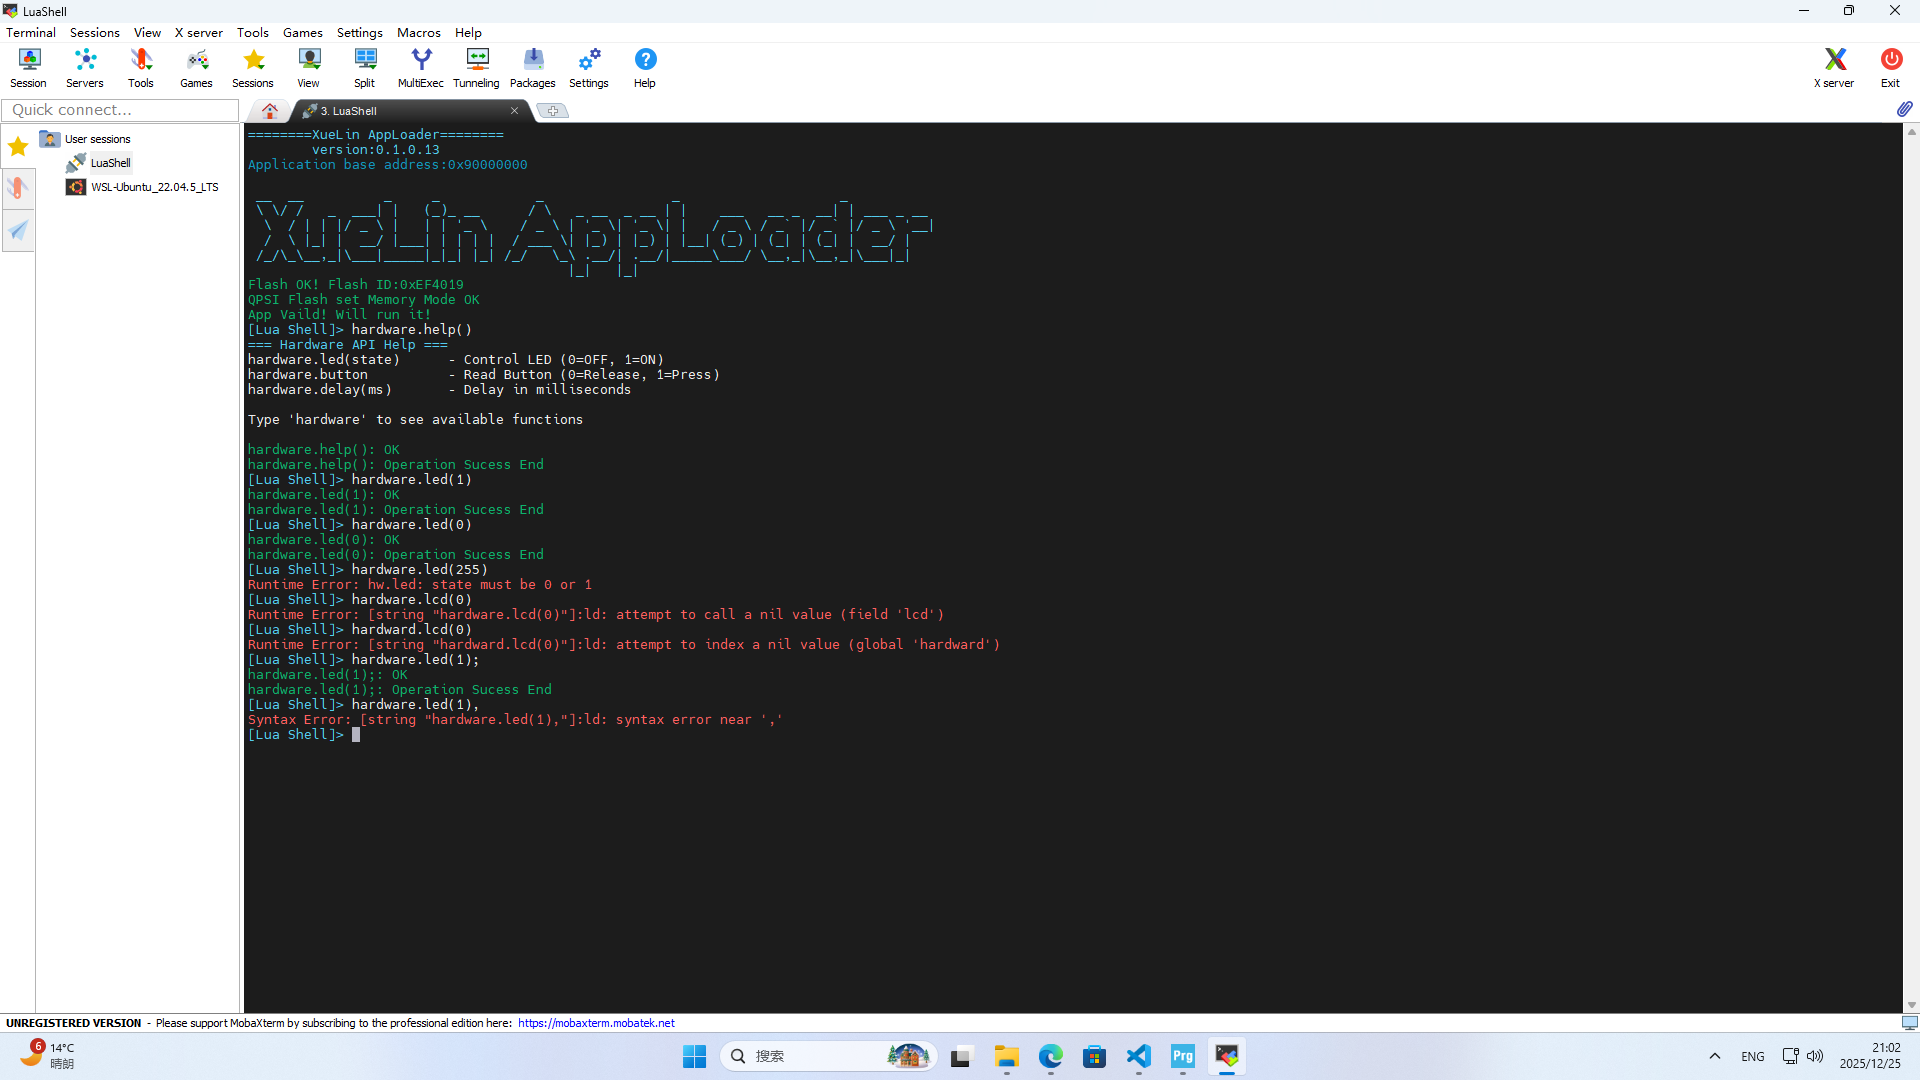
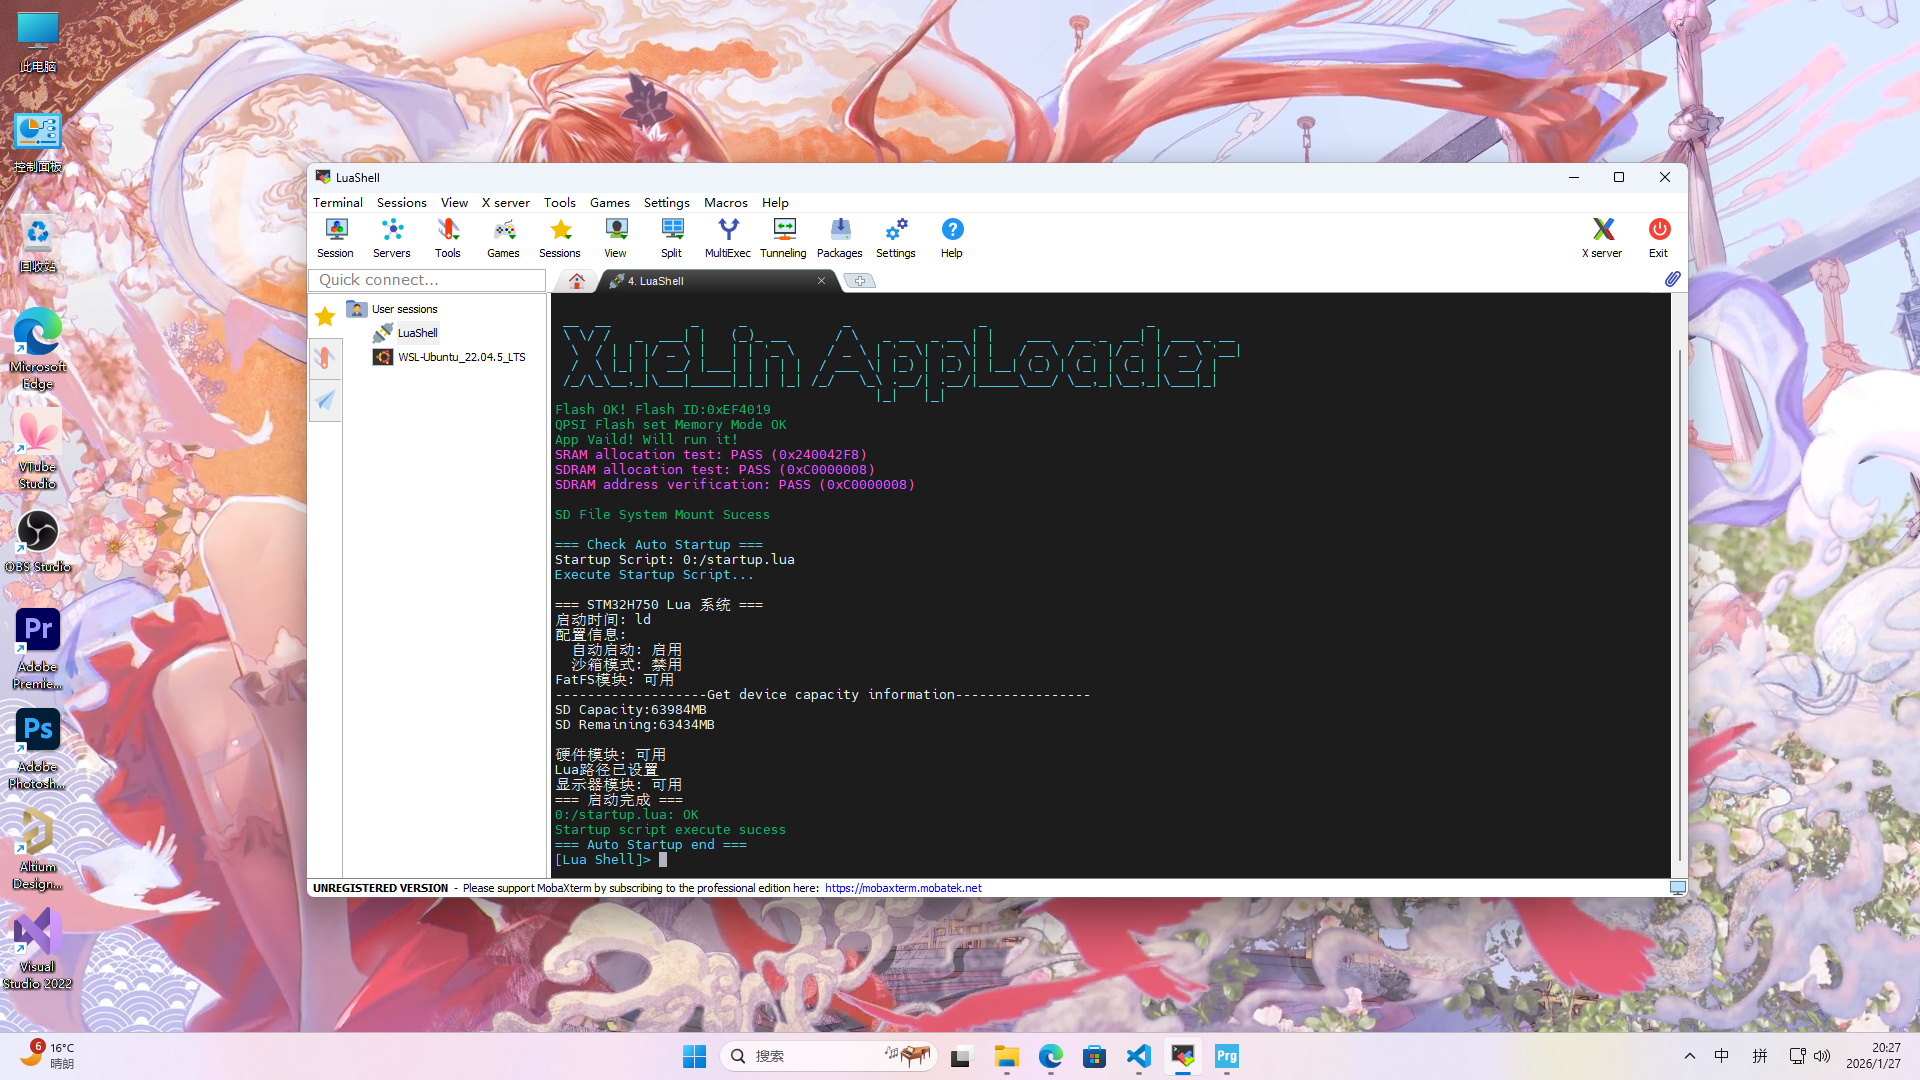
稍微更新下readme和截图

diff --git a/readme.md b/readme.md
@@ -2,14 +2,15 @@
 
 ![Image](./Assets/ScreenShot.png)
 
-## 原理
-首先通过USART1接收命令行字节并匹配Terminal的行编辑模式并实时回显，然后在接收到方向键时移动光标或者翻历史记录(最高10条，要增减自己改MAX_HISTORY定义)
-
-然后在接收到回车符号("\r"或"\n")后，将字符串指针通过队列送到LUA_ProcessTask_Handle，通过xQueueReceive把指针拷出来，此时指向的就是接收到的指令字符串数据，用完free
-
-之后就是在接收到指令时，调用LUA解释器，执行指令
-
-最后，就是错误处理，把出现的所有错误给接下来，语法和执行错误别把RTOS打崩了就行
+> [!NOTE]
+>## 原理
+>首先通过USART1接收命令行字节并匹配Terminal的行编辑模式并实时回显，然后在接收到方向键时移动光标或者翻历史记录(最高10条，要增减自己改MAX_HISTORY定义)
+>
+>然后在接收到回车符号("\r"或"\n")后，将字符串指针通过队列送到LUA_ProcessTask_Handle，通过xQueueReceive把指针拷出来，此时指向的就是接收到的指令字符串数据，用完free
+>
+>之后就是在接收到指令时，调用LUA解释器，执行指令
+>
+>最后，就是错误处理，把出现的所有错误给接下来，语法和执行错误别把RTOS打崩了就行
 
 ## 如何对接新硬件？
 首先，把你想要实现的功能写成函数，比如:
@@ -43,11 +44,14 @@
         {NULL, NULL} // 结束标记
     };
 
-## 许可证
+# 注意事项
 
-本项目采用**双许可证**模式：
-
-- **个人/非商业使用**：遵循 [GPLv3 许可证](License.txt)
-- **商业使用**：需获取商业授权，请联系 [xuelin-sherlyn@outlook.com](mailto:xuelin-sherlyn@outlook.com)
-
-简单说：个人、学习、研究随便用；公司商用请先联系我获取授权。
+> [!IMPORTANT]
+> ## 许可证
+>
+> 本项目采用**双许可证**模式：
+>
+> - **个人/非商业使用**：遵循 [GPLv3 许可证](License.txt)
+>- **商业使用**：需获取商业授权，请联系 [xuelin-sherlyn@outlook.com](mailto:xuelin-sherlyn@outlook.com)
+>
+>简单说：个人、学习、研究随便用；公司商用请先联系我获取授权。
